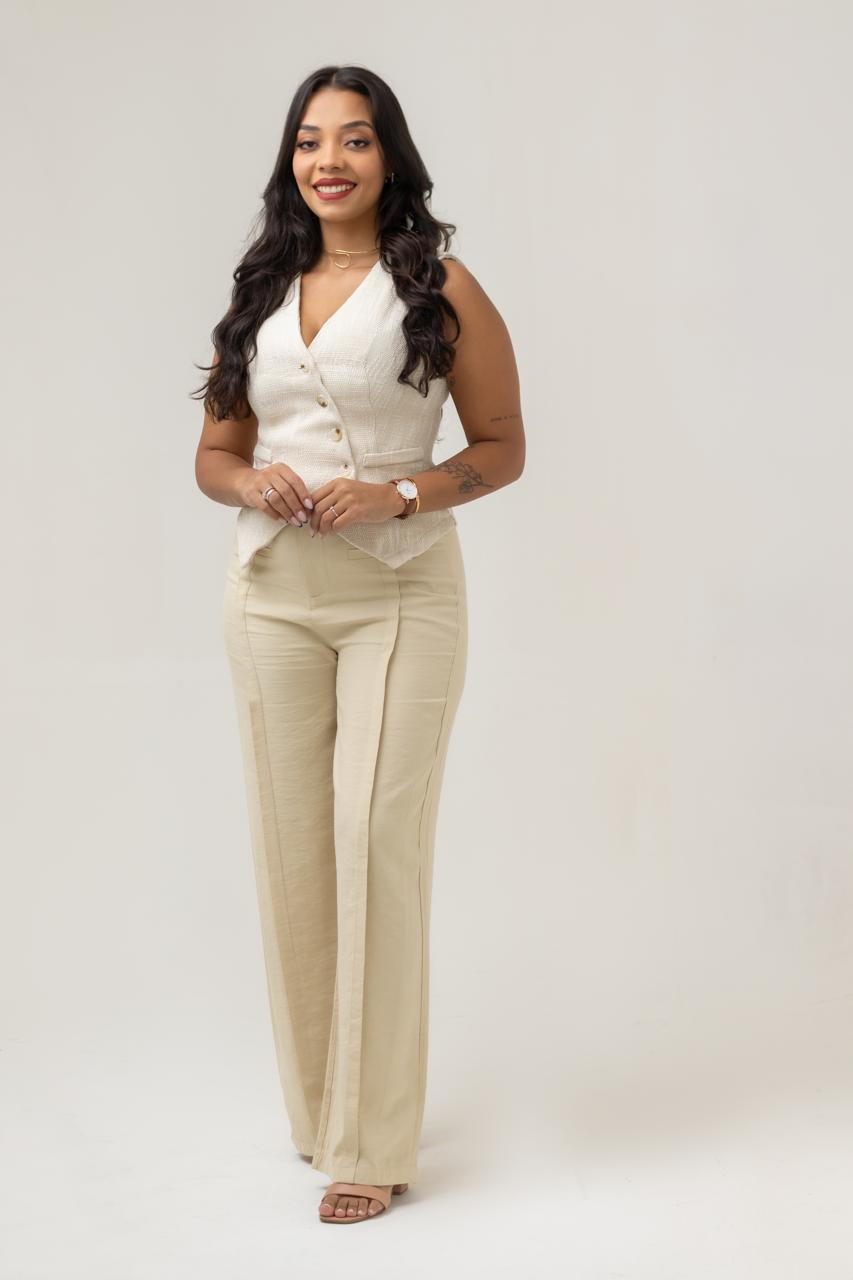
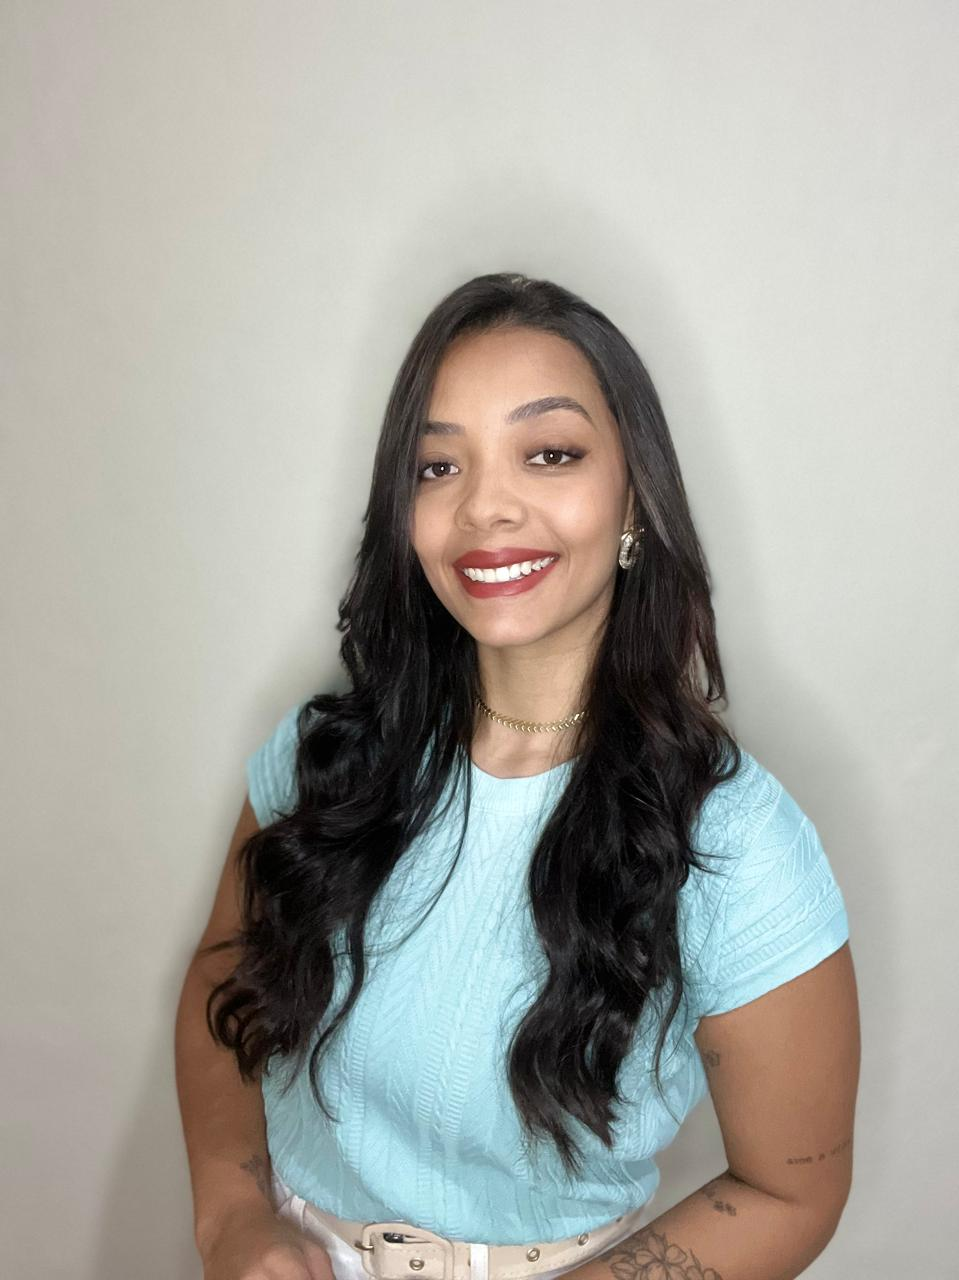
Add files via upload

diff --git a/index.html b/index.html
@@ -126,73 +126,32 @@ section{padding:100px 5%}
 
 /* iPad mockup com overlay */
 .ipad-mockup-wrap{position:relative;max-width:420px;margin:0 auto}
-.ipad-mockup-wrap img{width:100%;display:block;border-radius:8px}
-.ipad-screen-overlay{
-  position:absolute;
-  top:38.5%;left:24.5%;
-  width:51%;height:51%;
-  background:#0F2236;
-  border-radius:6px;
-  overflow:hidden;
-  display:flex;flex-direction:column;
-}
-.ipad-dash-header{background:#1A3050;padding:6px 10px;display:flex;align-items:center;justify-content:space-between}
-.ipad-dash-header span{font-size:6px;font-weight:700;color:var(--teal);letter-spacing:.08em;text-transform:uppercase}
-.ipad-dash-header .dot{width:5px;height:5px;border-radius:50%;background:var(--teal)}
-.ipad-dash-body{padding:8px;flex:1;display:flex;flex-direction:column;gap:5px}
-.ipad-kpi-row{display:flex;gap:5px}
-.ipad-kpi{flex:1;background:#1A3050;border-radius:3px;padding:5px 6px;border-top:2px solid var(--teal)}
-.ipad-kpi .kpi-val{font-size:10px;font-weight:700;color:var(--teal);font-family:'Raleway',sans-serif}
-.ipad-kpi .kpi-label{font-size:5px;color:rgba(255,255,255,.4);margin-top:1px;text-transform:uppercase;letter-spacing:.05em}
-.ipad-bar-section{background:#1A3050;border-radius:3px;padding:6px;flex:1}
-.ipad-bar-title{font-size:5px;color:rgba(255,255,255,.4);text-transform:uppercase;letter-spacing:.05em;margin-bottom:5px}
-.ipad-bars{display:flex;align-items:flex-end;gap:4px;height:30px}
-.ipad-bar{flex:1;border-radius:2px 2px 0 0;background:var(--teal);opacity:.7}
-.ipad-bar:nth-child(2){opacity:.5}
-.ipad-bar:nth-child(3){opacity:.85}
-.ipad-bar:nth-child(4){opacity:.6}
-.ipad-bar:nth-child(5){opacity:.9}
-.ipad-bar:nth-child(6){opacity:.45}
-.ipad-chip-row{display:flex;gap:4px}
-.ipad-chip{flex:1;background:#1A3050;border-radius:3px;padding:4px 5px;display:flex;align-items:center;gap:3px}
-.ipad-chip-dot{width:4px;height:4px;border-radius:50%;background:var(--teal)}
-.ipad-chip span{font-size:5px;color:rgba(255,255,255,.5);text-transform:uppercase}
-
-/* FOTOS EXTRA */
-#fotos-section{background:var(--branco);padding:80px 5%}
-.fotos-grid{display:grid;grid-template-columns:repeat(3,1fr);gap:16px;max-width:1160px;margin:0 auto}
-.fotos-grid img{width:100%;aspect-ratio:3/4;object-fit:cover;object-position:top;border-radius:6px;display:block;transition:transform .3s}
-.fotos-grid img:hover{transform:scale(1.02)}
-.fotos-grid img:first-child{aspect-ratio:auto;object-fit:cover}
-
-/* FERRAMENTAS */
-#ferramentas-section{background:var(--navy)}
-.ferr-grid{display:grid;grid-template-columns:repeat(2,1fr);gap:11px}
-.ferr-item{display:flex;align-items:center;gap:14px;background:rgba(255,255,255,.04);border:1px solid rgba(59,191,173,.1);padding:15px 18px;border-radius:3px;transition:background .2s}
-.ferr-item:hover{background:rgba(255,255,255,.08)}
-.ferr-check{width:26px;height:26px;flex-shrink:0;background:var(--teal);border-radius:50%;display:flex;align-items:center;justify-content:center;color:var(--navy);font-size:.75rem;font-weight:900}
-.ferr-item span{color:rgba(255,255,255,.65);font-size:.86rem}
+.ipad-mockup-wrap img{width:100%;display:block;border-radius:8px;box-shadow:0 24px 60px rgba(0,0,0,.3)}
 
 /* DIFERENCIAIS */
 #diferenciais-section{background:var(--creme)}
-.dif-grid{display:grid;grid-template-columns:repeat(4,1fr);gap:20px}
-.dif-card{padding:32px 24px;border-radius:4px;border:1px solid var(--cinza);background:var(--branco);border-bottom:3px solid var(--teal);transition:all .25s}
-.dif-card:hover{transform:translateY(-3px);box-shadow:0 12px 36px rgba(0,0,0,.08)}
-.dif-icon{font-size:1.6rem;margin-bottom:14px}
-.dif-card h3{font-family:'Raleway',sans-serif;font-weight:700;font-size:.85rem;color:var(--navy);text-transform:uppercase;letter-spacing:.06em;margin-bottom:10px}
-.dif-card p{color:var(--texto-lt);font-size:.83rem;line-height:1.72}
+.dif-wrap{text-align:center}
+.dif-photo{width:84px;height:84px;border-radius:50%;object-fit:cover;object-position:top center;margin:0 auto 20px;display:block;border:3px solid var(--teal-lt)}
+.dif-quote{font-family:'Raleway',sans-serif;font-weight:300;font-style:italic;font-size:clamp(1.25rem,2.6vw,1.7rem);color:var(--navy);max-width:760px;margin:22px auto 18px;line-height:1.55}
+.dif-sign{font-family:'Raleway',sans-serif;font-weight:700;font-size:.78rem;letter-spacing:.08em;color:var(--teal-dk);margin-bottom:64px}
+.dif-list{display:grid;grid-template-columns:repeat(2,1fr);gap:36px 56px;text-align:left;max-width:900px;margin:0 auto}
+.dif-row{position:relative;padding-left:26px}
+.dif-tri{position:absolute;left:0;top:6px;width:0;height:0;border-left:5px solid transparent;border-right:5px solid transparent;border-bottom:9px solid var(--teal)}
+.dif-row h3{font-family:'Raleway',sans-serif;font-weight:700;font-size:.92rem;color:var(--navy);margin-bottom:6px}
+.dif-row p{color:var(--texto-lt);font-size:.85rem;line-height:1.7}
 
 /* CONTATO */
 #contato-section{background:var(--branco)}
-.contato-grid{display:grid;grid-template-columns:1fr 1fr;gap:72px;align-items:center}
-.contato-foto img{width:100%;aspect-ratio:3/4;object-fit:cover;object-position:top center;border-radius:4px;display:block}
-.contato-info p.desc{color:var(--texto-lt);font-size:.96rem;line-height:1.8;margin-bottom:34px}
-.contato-cards{display:flex;flex-direction:column;gap:12px;margin-bottom:34px}
-.contato-card{display:flex;align-items:center;gap:18px;background:var(--creme);border:1px solid var(--cinza);border-left:4px solid var(--teal);border-radius:3px;padding:15px 20px;text-decoration:none;color:inherit;transition:all .2s}
-.contato-card:hover{box-shadow:0 4px 18px rgba(0,0,0,.08);transform:translateX(3px)}
-.contato-ico{width:40px;height:40px;flex-shrink:0;background:var(--navy);border-radius:50%;display:flex;align-items:center;justify-content:center;font-size:1rem}
-.contato-label{font-size:.7rem;color:var(--texto-lt);margin-bottom:2px}
-.contato-value{font-weight:600;color:var(--navy);font-size:.9rem}
+.banner-final{position:relative;background:linear-gradient(120deg,var(--navy) 0%,var(--navy-md) 100%);padding:80px 64px;display:flex;align-items:center;justify-content:center;gap:64px;overflow:hidden}
+.banner-photo{flex:none;width:200px;height:240px;border-radius:8px;overflow:hidden;box-shadow:0 20px 50px rgba(0,0,0,.35);border:3px solid rgba(255,255,255,.15)}
+.banner-photo img{width:100%;height:100%;object-fit:cover;object-position:top center;display:block}
+.banner-content{text-align:center;max-width:560px}
+.banner-tagline{font-family:'Raleway',sans-serif;font-weight:300;font-size:1.3rem;color:#fff;line-height:1.5;margin-bottom:28px}
+.banner-logo{height:52px;margin-bottom:30px}
+.banner-contacts{display:flex;flex-direction:column;gap:14px;margin-bottom:34px;align-items:center}
+.banner-item{display:flex;align-items:center;gap:12px;color:rgba(255,255,255,.85);text-decoration:none;font-size:.9rem}
+.banner-item small{color:rgba(255,255,255,.5);font-size:.76rem}
+.banner-ico{font-size:1rem}
 
 /* FOOTER */
 footer{background:var(--navy);border-top:1px solid rgba(59,191,173,.15);padding:36px 5%;display:flex;align-items:center;justify-content:space-between;flex-wrap:wrap;gap:16px}
@@ -204,19 +163,18 @@ footer p{font-size:.72rem;color:rgba(255,255,255,.28);text-align:right;line-heig
 /* MOBILE */
 @media(max-width:900px){
   .servicos-grid,.servicos-grid.tres{grid-template-columns:1fr}
-  .dif-grid{grid-template-columns:repeat(2,1fr)}
-  .ferr-grid{grid-template-columns:1fr}
-  .sobre-grid,.contato-grid,.ipad-grid{grid-template-columns:1fr;gap:40px}
+  .dif-list{grid-template-columns:repeat(2,1fr)}
+  .sobre-grid,.ipad-grid{grid-template-columns:1fr;gap:40px}
+  .banner-final{flex-direction:column;padding:56px 28px}
+  .banner-photo{width:160px;height:190px}
   .sobre-badge{left:10px}
   .nav-links{display:none}
-  .fotos-grid{grid-template-columns:repeat(2,1fr)}
   footer{flex-direction:column}
   footer p{text-align:center}
 }
 @media(max-width:580px){
   section{padding:70px 6%}
-  .dif-grid{grid-template-columns:1fr}
-  .fotos-grid{grid-template-columns:1fr}
+  .dif-list{grid-template-columns:1fr}
 }
 </style>
 </head>
@@ -258,12 +216,12 @@ footer p{font-size:.72rem;color:rgba(255,255,255,.28);text-align:right;line-heig
       <img src="foto-sobre.jpg" alt="Jéssica Amarães — Consultora de RH">
       <div class="sobre-badge">
         <strong>+12</strong>
-        <span>módulos entregues por projeto</span>
+        <span>anos de experiência em RH</span>
       </div>
     </div>
     <div class="sobre-text">
       <span class="section-tag">Sobre a Amarães</span>
-      <h2 class="section-title dark">Transformamos RH em vantagem competitiva</h2>
+      <h2 class="section-title dark">Transformamos RH em algo que agrega valor e segurança de verdade para a empresa</h2>
       <div class="title-bar"></div>
       <p>A Amarães Consultoria é especializada em estruturação estratégica de Recursos Humanos e adequação à Norma Regulamentadora nº 1 (NR-1), com uma abordagem completamente personalizada para cada empresa.</p>
       <p>Nosso objetivo é transformar o RH em uma área estratégica — criando processos padronizados, indicadores de desempenho, políticas internas e ferramentas que promovam eficiência operacional, segurança jurídica e desenvolvimento humano.</p>
@@ -405,113 +363,66 @@ footer p{font-size:.72rem;color:rgba(255,255,255,.28);text-align:right;line-heig
     </div>
     <div class="ipad-mockup-wrap">
       <img src="foto-ipad.jpg" alt="Jéssica com iPad">
-      <div class="ipad-screen-overlay">
-        <div class="ipad-dash-header">
-          <span>Dashboard RH</span>
-          <div class="dot"></div>
-        </div>
-        <div class="ipad-dash-body">
-          <div class="ipad-kpi-row">
-            <div class="ipad-kpi"><div class="kpi-val">94%</div><div class="kpi-label">Retenção</div></div>
-            <div class="ipad-kpi"><div class="kpi-val">12</div><div class="kpi-label">Admissões</div></div>
-            <div class="ipad-kpi"><div class="kpi-val">3,2%</div><div class="kpi-label">Turnover</div></div>
-          </div>
-          <div class="ipad-bar-section">
-            <div class="ipad-bar-title">Indicadores mensais</div>
-            <div class="ipad-bars">
-              <div class="ipad-bar" style="height:55%"></div>
-              <div class="ipad-bar" style="height:40%"></div>
-              <div class="ipad-bar" style="height:70%"></div>
-              <div class="ipad-bar" style="height:50%"></div>
-              <div class="ipad-bar" style="height:85%"></div>
-              <div class="ipad-bar" style="height:35%"></div>
-            </div>
-          </div>
-          <div class="ipad-chip-row">
-            <div class="ipad-chip"><div class="ipad-chip-dot"></div><span>Férias OK</span></div>
-            <div class="ipad-chip"><div class="ipad-chip-dot"></div><span>ASOs OK</span></div>
-            <div class="ipad-chip"><div class="ipad-chip-dot"></div><span>Docs OK</span></div>
-          </div>
-        </div>
-      </div>
-    </div>
-  </div>
-</section>
-
-<!-- FOTOS EXTRA -->
-<section id="fotos-section">
-  <div class="wrap" style="text-align:center;margin-bottom:48px">
-    <span class="section-tag">Consultoria em ação</span>
-    <h2 class="section-title dark">Comprometimento em cada detalhe</h2>
-    <div class="title-bar" style="margin:0 auto 0"></div>
-  </div>
-  <div class="fotos-grid wrap">
-    <img src="foto-ipad2.jpg" alt="Consultora analisando dados">
-    <img src="foto-sobre.jpg" alt="Consultora em atendimento">
-    <img src="foto-tablet.jpg" alt="Consultora com tablet">
-  </div>
-</section>
-
-<!-- FERRAMENTAS -->
-<section id="ferramentas-section">
-  <div class="wrap">
-    <span class="section-tag">O que você recebe</span>
-    <h2 class="section-title light">Ferramentas Entregues</h2>
-    <div class="title-bar"></div>
-    <p style="color:rgba(255,255,255,.48);font-size:.92rem;margin-bottom:32px;max-width:560px">Modelos editáveis para a empresa gerir seus processos de RH com autonomia após o projeto:</p>
-    <div class="ferr-grid">
-      <div class="ferr-item"><div class="ferr-check">✓</div><span>Controle de férias</span></div>
-      <div class="ferr-item"><div class="ferr-check">✓</div><span>Controle de experiência</span></div>
-      <div class="ferr-item"><div class="ferr-check">✓</div><span>Controle de treinamentos</span></div>
-      <div class="ferr-item"><div class="ferr-check">✓</div><span>Controle de benefícios</span></div>
-      <div class="ferr-item"><div class="ferr-check">✓</div><span>Controle de reajustes</span></div>
-      <div class="ferr-item"><div class="ferr-check">✓</div><span>Controle de ASOs</span></div>
-      <div class="ferr-item"><div class="ferr-check">✓</div><span>Controle documental</span></div>
-      <div class="ferr-item"><div class="ferr-check">✓</div><span>Dashboard de RH</span></div>
-      <div class="ferr-item"><div class="ferr-check">✓</div><span>Dashboard de indicadores</span></div>
-      <div class="ferr-item"><div class="ferr-check">✓</div><span>Dashboard de recrutamento</span></div>
     </div>
   </div>
 </section>
 
 <!-- DIFERENCIAIS -->
 <section id="diferenciais-section">
-  <div class="wrap">
+  <div class="wrap dif-wrap">
     <span class="section-tag">Por que a Amarães</span>
-    <h2 class="section-title dark">Nossos Diferenciais</h2>
-    <div class="title-bar"></div>
-    <div class="dif-grid">
-      <div class="dif-card"><div class="dif-icon">🤝</div><h3>Atendimento Próximo</h3><p>Não somos apenas fornecedoras — somos parceiras no desenvolvimento do seu RH, do início ao fim.</p></div>
-      <div class="dif-card"><div class="dif-icon">🎯</div><h3>Soluções sob Medida</h3><p>Cada empresa tem uma realidade única. Todo o nosso trabalho é adaptado às suas necessidades específicas.</p></div>
-      <div class="dif-card"><div class="dif-icon">⚡</div><h3>Agilidade e Prazo</h3><p>Cronogramas definidos e respeitados. Você sabe exatamente o que esperar e quando receber.</p></div>
-      <div class="dif-card"><div class="dif-icon">💬</div><h3>Comunicação Clara</h3><p>Você acompanha cada etapa com transparência, sem jargões e sem surpresas no caminho.</p></div>
+    <img class="dif-photo" src="foto-quote.jpg" alt="Jéssica Amarães">
+    <p class="dif-quote">"Não entrego um relatório e vou embora. Entro na empresa, entendo a rotina de verdade e só depois desenho o que faz sentido — porque RH bom não é o que segue modelo, é o que serve quem trabalha ali."</p>
+    <div class="dif-sign">— Jéssica Amarães</div>
+
+    <div class="dif-list">
+      <div class="dif-row">
+        <div class="dif-tri"></div>
+        <h3>Atendimento próximo, não terceirizado</h3>
+        <p>Quem diagnostica, estrutura e acompanha é a mesma pessoa — do início ao fim do projeto.</p>
+      </div>
+      <div class="dif-row">
+        <div class="dif-tri"></div>
+        <h3>Nada de fórmula pronta</h3>
+        <p>Cada entrega nasce do que a sua empresa realmente precisa, não de um modelo genérico replicado.</p>
+      </div>
+      <div class="dif-row">
+        <div class="dif-tri"></div>
+        <h3>Prazo combinado é prazo cumprido</h3>
+        <p>Cronograma claro desde a primeira conversa — sem enrolação, sem surpresa no meio do caminho.</p>
+      </div>
+      <div class="dif-row">
+        <div class="dif-tri"></div>
+        <h3>Conversa de gente pra gente</h3>
+        <p>Sem jargão técnico pra impressionar. Você entende cada etapa do jeito que eu explico.</p>
+      </div>
     </div>
   </div>
 </section>
 
 <!-- CONTATO -->
-<section id="contato-section">
-  <div class="wrap contato-grid">
-    <div class="contato-foto">
-      <img src="foto-contato.jpg" alt="Jéssica Amarães">
-    </div>
-    <div class="contato-info">
-      <span class="section-tag">Vamos Conversar</span>
-      <h2 class="section-title dark">Pronta para transformar o RH da sua empresa?</h2>
-      <div class="title-bar"></div>
-      <p class="desc">Entre em contato e descubra como a Amarães Consultoria pode estruturar a gestão de pessoas no seu negócio — de forma personalizada e estratégica.</p>
-      <div class="contato-cards">
-        <a href="https://wa.me/5512988204036" class="contato-card" target="_blank">
-          <div class="contato-ico">📱</div>
-          <div><div class="contato-label">WhatsApp</div><div class="contato-value">(12) 9 8820-4036</div></div>
-        </a>
-        <a href="mailto:[email redacted]" class="contato-card">
-          <div class="contato-ico">✉️</div>
-          <div><div class="contato-label">E-mail</div><div class="contato-value">[email redacted]</div></div>
-        </a>
+<section id="contato-section" class="banner-final">
+  <div class="banner-photo">
+    <img src="foto-contato.jpg" alt="Jéssica Amarães">
+  </div>
+  <div class="banner-content">
+    <p class="banner-tagline">Mais estratégia, menos burocracia.<br>O crescimento do seu negócio começa aqui.</p>
+    <img class="banner-logo" src="logo-amaraes.png" alt="Amarães Consultoria">
+    <div class="banner-contacts">
+      <div class="banner-item">
+        <span class="banner-ico">📍</span>
+        <span>São José dos Campos/SP<br><small>Atendimento digital e presencial</small></span>
       </div>
-      <a href="https://wa.me/5512988204036" class="btn btn-teal" target="_blank">💬 Falar pelo WhatsApp</a>
+      <a href="https://wa.me/5512988204036" class="banner-item" target="_blank">
+        <span class="banner-ico">📱</span>
+        <span>(12) 9 8820-4036</span>
+      </a>
+      <a href="mailto:[email redacted]" class="banner-item">
+        <span class="banner-ico">✉️</span>
+        <span>[email redacted]</span>
+      </a>
     </div>
+    <a href="https://wa.me/5512988204036" class="btn btn-teal" target="_blank">💬 Falar pelo WhatsApp</a>
   </div>
 </section>
 